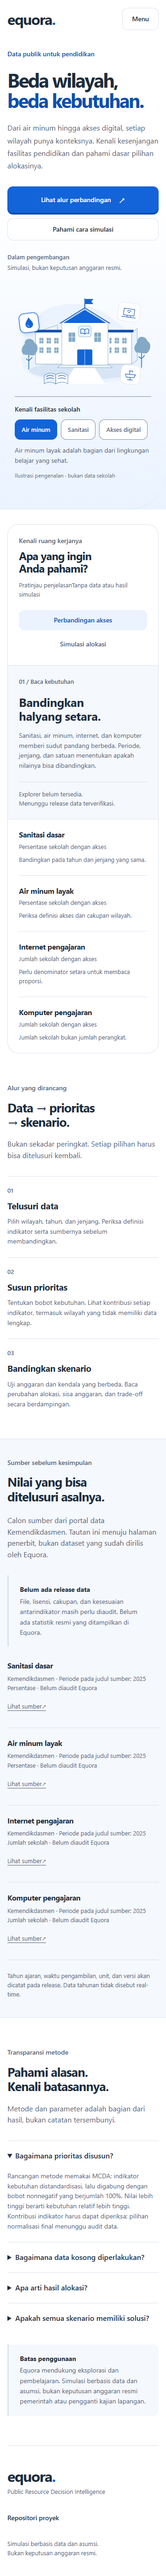
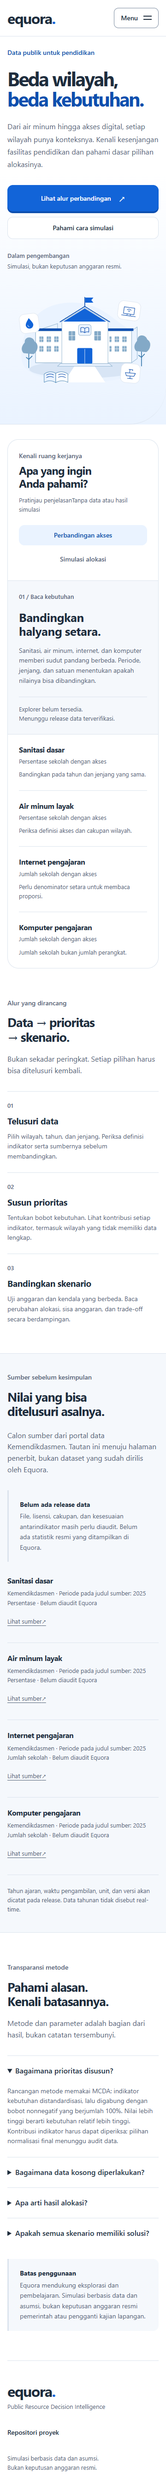
feat(web): simplify hero and refine public navigation

Changed region(s): [[0.0306, 0.0, 0.9472, 0.9957], [0.6417, 0.3734, 0.7639, 0.4045]]

diff --git a/frontend/src/lib/components/PublicShell.svelte b/frontend/src/lib/components/PublicShell.svelte
@@ -1,5 +1,6 @@
 <script lang="ts">
   import type { Snippet } from 'svelte';
+  import { page } from '$app/state';
 
   let { children, links = [] }: {
     children: Snippet;
@@ -7,6 +8,13 @@
   } = $props();
   let menuOpen = $state(false);
   let menuButton = $state<HTMLButtonElement>();
+
+  function currentFor(href: string): 'page' | 'location' | undefined {
+    const target = new URL(href, page.url);
+    if (target.pathname !== page.url.pathname) return undefined;
+    if (target.hash) return target.hash === page.url.hash ? 'location' : undefined;
+    return 'page';
+  }
 
   function closeOnEscape(event: KeyboardEvent) {
     if (event.key === 'Escape' && menuOpen) {
@@ -20,19 +28,24 @@
 
 <a class="skip-link" href="#main-content">Lewati ke konten utama</a>
 <div class="public-frame">
-<header class="eq-container header">
+<header class="header-bar">
+<div class="eq-container header">
   <a href="/" class="wordmark" aria-label="Equora, beranda">equora<span>.</span></a>
   {#if links.length}
-    <button class="eq-button menu" bind:this={menuButton} aria-expanded={menuOpen}
+    <button class="menu" bind:this={menuButton} aria-expanded={menuOpen}
       aria-controls="public-navigation" onclick={() => menuOpen = !menuOpen}>
       {menuOpen ? 'Tutup menu' : 'Menu'}
+      <span class="menu-icon" aria-hidden="true"><span></span><span></span></span>
     </button>
     <nav id="public-navigation" class:open={menuOpen} aria-label="Navigasi utama">
       {#each links as link}
-        <a href={link.href} onclick={() => menuOpen = false}>{link.label}</a>
+        <a href={link.href} class="nav-link" class:about-link={link.href === '/about'} aria-current={currentFor(link.href)} onclick={() => menuOpen = false}>
+          {link.label}{#if link.href === '/about'}<span aria-hidden="true">↗</span>{/if}
+        </a>
       {/each}
     </nav>
   {/if}
+</div>
 </header>
 
 <main id="main-content" tabindex="-1">{@render children()}</main>
@@ -47,25 +60,36 @@
 
 <style>
   .public-frame { width: calc(100% - 48px); max-width: 1360px; margin: 24px auto; background: var(--eq-surface); border-radius: 28px; box-shadow: 0 12px 48px rgb(31 45 61 / 5.5%); }
-  .header { min-height: 96px; display: flex; align-items: center; justify-content: space-between; gap: 24px; }
+  .header-bar { position: sticky; top: 0; z-index: 20; background: var(--eq-surface); border-radius: 28px 28px 0 0; border-bottom: 1px solid var(--eq-border); }
+  .header { min-height: 88px; display: flex; align-items: center; justify-content: space-between; gap: 24px; }
   .wordmark { display: inline-flex; align-items: center; min-height: 44px; font-size: 32px; font-weight: 750; letter-spacing: -1.6px; text-decoration: none; }
   .wordmark span { color: var(--eq-primary); }
-  nav { display: flex; flex-wrap: wrap; align-items: center; gap: 8px 24px; }
+  nav { display: flex; align-items: center; gap: 4px; }
   nav a, .footer > a { display: inline-flex; align-items: center; min-height: 44px; font-size: 14px; font-weight: 550; text-decoration: none; }
-  nav a:hover, .footer > a:hover { color: var(--eq-primary-hover); text-decoration: underline; }
+  .nav-link { position: relative; padding: 10px 14px; border-radius: 10px; color: var(--eq-text-secondary); gap: 14px; }
+  .nav-link:hover, .nav-link[aria-current] { background: var(--eq-primary-tint); color: var(--eq-primary-hover); }
+  .nav-link[aria-current]::after { content: ''; position: absolute; bottom: 4px; left: 14px; right: 14px; height: 2px; background: var(--eq-primary); }
+  .nav-link.about-link { margin-left: 16px; border: 1px solid var(--eq-control-border); color: var(--eq-text); }
+  .footer > a:hover { color: var(--eq-primary-hover); text-decoration: underline; }
   .menu { display: none; }
-  .skip-link { position: absolute; z-index: 10; left: 16px; top: -100px; padding: 12px 20px; background: var(--eq-surface-elevated); }
+  .menu-icon { width: 18px; display: grid; gap: 5px; }
+  .menu-icon span { width: 18px; height: 2px; background: currentColor; transition: transform 160ms ease; }
+  .menu[aria-expanded='true'] .menu-icon span:first-child { transform: translateY(3.5px) rotate(45deg); }
+  .menu[aria-expanded='true'] .menu-icon span:last-child { transform: translateY(-3.5px) rotate(-45deg); }
+  .skip-link { position: absolute; z-index: 30; left: 16px; top: -100px; padding: 12px 20px; background: var(--eq-surface-elevated); }
   .skip-link:focus { top: 12px; }
   .footer { padding-block: 40px; border-top: 1px solid var(--eq-border); display: flex; flex-wrap: wrap; align-items: center; justify-content: space-between; gap: 24px; }
   .footer p { font-size: 13px; color: var(--eq-text-secondary); }
   .disclaimer { text-align: right; }
-  @media (max-width: 767px) {
+  @media (max-width: 1023px) {
     .public-frame { width: 100%; margin: 0; border-radius: 0; box-shadow: none; }
-    .header { min-height: 80px; flex-wrap: wrap; gap: 12px; padding-block: 16px; }
-    .menu { display: inline-flex; }
-    nav { display: none; width: 100%; flex-direction: column; align-items: stretch; gap: 4px; padding-bottom: 8px; }
+    .header-bar { border-radius: 0; }
+    .header { min-height: 76px; flex-wrap: wrap; gap: 12px; padding-block: 14px; }
+    .menu { display: inline-flex; align-items: center; justify-content: center; gap: 12px; padding: 10px 14px; min-height: 44px; border: 1px solid var(--eq-control-border); border-radius: 10px; font-size: 14px; font-weight: 600; }
+    nav { display: none; width: 100%; flex-direction: column; align-items: stretch; gap: 4px; padding-block: 12px 4px; border-top: 1px solid var(--eq-border); max-height: calc(100dvh - 112px); overflow-y: auto; }
     nav.open { display: flex; }
-    nav a { padding: 8px 12px; background: var(--eq-surface); border-radius: var(--eq-radius-sm); }
+    .nav-link { padding: 12px 14px; }
+    .nav-link.about-link { margin: 8px 0 0; justify-content: space-between; }
     .footer { align-items: flex-start; flex-direction: column; }
     .disclaimer { text-align: left; }
   }

diff --git a/frontend/tests/landing.spec.ts b/frontend/tests/landing.spec.ts
@@ -12,21 +12,6 @@ for (const width of [360, 390, 768, 1024, 1440]) {
     await expect(page.getByText('Explorer belum tersedia.')).toBeVisible();
     expect(await page.evaluate(() => document.documentElement.scrollWidth <= innerWidth)).toBe(true);
 
-    const facilities = page.getByRole('group', { name: 'Sorot fasilitas pada ilustrasi' });
-    await facilities.getByRole('button', { name: 'Sanitasi', exact: true }).click();
-    await expect(page.locator('#facility-description')).toContainText('Sanitasi dasar');
-    await facilities.getByRole('button', { name: 'Akses digital', exact: true }).focus();
-    await page.keyboard.press('Enter');
-    await expect(facilities.getByRole('button', { name: 'Akses digital', exact: true })).toHaveAttribute('aria-pressed', 'true');
-    await expect(page.locator('#facility-description')).toContainText('Internet dan komputer');
-    await expect(page.locator('.education-scene .selected')).toHaveCount(1);
-    await page.emulateMedia({ reducedMotion: 'reduce' });
-    await expect(page.locator('.education-scene .selected')).toHaveCSS('transform', 'none');
-    await facilities.getByRole('button', { name: 'Air minum', exact: true }).click();
-    await expect(page.locator('#facility-description')).toContainText('Air minum layak');
-    await page.emulateMedia({ reducedMotion: 'no-preference' });
-    await page.goto('/');
-
     await page.keyboard.press('Tab');
     await expect(page.getByRole('link', { name: 'Lewati ke konten utama' })).toBeFocused();
     await page.keyboard.press('Enter');
@@ -56,7 +41,7 @@ for (const width of [360, 390, 768, 1024, 1440]) {
     for (const label of ['Lihat alur perbandingan', 'Pahami cara simulasi']) {
       await page.getByRole('link', { name: label, exact: true }).click();
     }
-    if (width < 768) {
+    if (width < 1024) {
       const menu = page.locator('button[aria-controls="public-navigation"]');
       await menu.click();
       await expect(menu).toHaveAttribute('aria-expanded', 'true');
@@ -65,18 +50,32 @@ for (const width of [360, 390, 768, 1024, 1440]) {
       await expect(menu).toHaveAttribute('aria-expanded', 'false');
     }
     for (const label of ['Alur analisis', 'Sumber data', 'Metode & batasan']) {
-      if (width < 768) await page.getByRole('button', { name: 'Menu', exact: true }).click();
+      if (width < 1024) await page.getByRole('button', { name: 'Menu', exact: true }).click();
       await page.getByRole('navigation').getByRole('link', { name: label, exact: true }).click();
       const fragment = new URL(page.url()).hash;
       await expect(page.locator(fragment)).toBeVisible();
+      await expect(page.locator('#public-navigation').getByRole('link', { name: label, exact: true, includeHidden: true })).toHaveAttribute('aria-current', 'location');
+      const header = await page.locator('header').boundingBox();
+      const section = await page.locator(fragment).boundingBox();
+      expect(section!.y).toBeGreaterThanOrEqual(header!.y + header!.height);
+      if (width < 1024) await expect(page.getByRole('button', { name: 'Menu', exact: true })).toHaveAttribute('aria-expanded', 'false');
     }
     await expect(page.locator('a[href^="https://data.kemendikdasmen.go.id/"]')).toHaveCount(4);
     await expect(page.locator('a[href="/explore"], a[href="/studio"], a[href="/datasets"], a[href="/methodology"]')).toHaveCount(0);
+    await page.goto('/');
     await page.screenshot({ path: testInfo.outputPath(`landing-${width}.png`), fullPage: true });
+    if (width < 1024) {
+      await page.getByRole('button', { name: 'Menu', exact: true }).click();
+      await page.screenshot({ path: testInfo.outputPath(`navigation-${width}.png`) });
+      await page.keyboard.press('Escape');
+    }
 
-    if (width < 768) await page.getByRole('button', { name: 'Menu', exact: true }).click();
+    if (width < 1024) await page.getByRole('button', { name: 'Menu', exact: true }).click();
     await page.getByRole('link', { name: 'Tentang Equora', exact: true }).click();
     await expect(page).toHaveURL(/\/about$/);
+    if (width < 1024) await page.getByRole('button', { name: 'Menu', exact: true }).click();
+    await expect(page.getByRole('navigation').getByRole('link', { name: 'Tentang Equora', exact: true })).toHaveAttribute('aria-current', 'page');
+    if (width < 1024) await page.keyboard.press('Escape');
     await expect(page.getByRole('heading', { level: 1 })).toHaveCount(1);
     expect(await page.evaluate(() => document.documentElement.scrollWidth <= innerWidth)).toBe(true);
     await page.screenshot({ path: testInfo.outputPath(`about-${width}.png`), fullPage: true });

diff --git a/frontend/src/routes/+page.svelte b/frontend/src/routes/+page.svelte
@@ -4,12 +4,6 @@
   import EducationScene from '#lib/components/EducationScene.svelte';
 
   let view = $state<'access' | 'allocation'>('access');
-  let facility = $state<'water' | 'sanitation' | 'digital'>('water');
-  const heroFacilities = [
-    { id: 'water', label: 'Air minum', description: 'Air minum layak adalah bagian dari lingkungan belajar yang sehat.' },
-    { id: 'sanitation', label: 'Sanitasi', description: 'Sanitasi dasar mendukung kenyamanan dan kebersihan di sekolah.' },
-    { id: 'digital', label: 'Akses digital', description: 'Internet dan komputer membuka akses pada sumber belajar digital.' }
-  ] as const;
   const facilities = [
     { name: 'Sanitasi dasar', measure: 'Persentase sekolah dengan akses', note: 'Bandingkan pada tahun dan jenjang yang sama.' },
     { name: 'Air minum layak', measure: 'Persentase sekolah dengan akses', note: 'Periksa definisi akses dan cakupan wilayah.' },
@@ -48,17 +42,7 @@
       <p class="hero-note"><span class="development-label">Dalam pengembangan</span><br />Simulasi, bukan keputusan anggaran resmi.</p>
     </div>
     <figure class="education-visual">
-      <div class="education-scene"><EducationScene selected={facility} /></div>
-      <figcaption>
-        <p class="scene-label">Kenali fasilitas sekolah</p>
-        <div class="facility-topics" role="group" aria-label="Sorot fasilitas pada ilustrasi">
-          {#each heroFacilities as item}
-            <button aria-pressed={facility === item.id} aria-controls="facility-description" onclick={() => facility = item.id}>{item.label}</button>
-          {/each}
-        </div>
-        <p id="facility-description" class="facility-description" aria-live="polite">{heroFacilities.find((item) => item.id === facility)?.description}</p>
-        <p class="illustration-note">Ilustrasi pengenalan · bukan data sekolah</p>
-      </figcaption>
+      <div class="education-scene"><EducationScene /></div>
     </figure>
   </section>
   </div>
@@ -158,14 +142,6 @@
   .development-label { font-weight: 600; }
   .education-visual { min-width: 0; margin: 0; }
   .education-scene { width: 100%; }
-  figcaption { margin: 0 24px; padding-top: 16px; border-top: 1px solid var(--eq-control-border); }
-  figcaption > p { font-size: 14px; font-weight: 600; color: var(--eq-text); }
-  .facility-topics { display: flex; flex-wrap: wrap; gap: 8px; margin-top: 12px; }
-  .facility-topics button { min-height: 44px; padding: 8px 14px; border: 1px solid var(--eq-control-border); border-radius: var(--eq-radius-sm); background: var(--eq-surface); color: var(--eq-text-secondary); font-size: 13px; font-weight: 600; }
-  .facility-topics button[aria-pressed='true'] { background: var(--eq-primary); color: white; border-color: var(--eq-primary); }
-  .facility-topics button:hover { border-color: var(--eq-primary); }
-  figcaption .facility-description { min-height: 48px; margin-top: 12px; color: var(--eq-text-secondary); font-size: 14px; font-weight: 400; }
-  figcaption .illustration-note { margin-top: 8px; font-size: 12px; color: var(--eq-text-muted); font-weight: 400; }
   @media (prefers-reduced-motion: reduce) { .hero-primary:active { transform: none; } }
   dl { margin: 0; }
   dt { font-weight: 600; }
@@ -232,7 +208,6 @@
     .hero { grid-template-columns: 1fr; gap: 32px; padding-top: 24px; }
     h1 { max-width: 620px; }
     .education-visual { width: min(100%, 520px); justify-self: center; }
-    figcaption { margin-inline: 16px; }
     .preview-header { align-items: flex-start; flex-direction: column; gap: 12px; padding: 24px; }
     .preview-caption { text-align: left; }
     .preview-caption br { display: none; }

diff --git a/frontend/src/lib/components/EducationScene.svelte b/frontend/src/lib/components/EducationScene.svelte
@@ -1,7 +1,3 @@
-<script lang="ts">
-  let { selected = 'water' }: { selected?: 'water' | 'sanitation' | 'digital' } = $props();
-</script>
-
 <svg viewBox="0 0 600 430" role="img" aria-label="Ilustrasi lingkungan sekolah dengan fasilitas air, sanitasi, dan akses digital, bukan data sekolah nyata">
   <defs>
     <pattern id="eq-school-windows" width="30" height="38" patternUnits="userSpaceOnUse">
@@ -36,24 +32,18 @@
   <path d="M64 264C48 247 63 228 69 222C66 198 100 194 108 218C130 231 117 263 103 268Z" class="leaves" />
   <path d="M511 256C495 239 510 220 516 214C513 190 547 186 555 210C577 223 564 255 550 260Z" class="leaves" />
   <g transform="translate(49 108) rotate(-7 38 38)">
-    <g class="facility-icon" class:selected={selected === 'water'}>
     <rect width="76" height="76" rx="20" class="resource-card" />
     <path d="M38 17C31 28 23 36 23 44A15 15 0 0 0 53 44C53 36 45 28 38 17Z" class="drop" />
     <path d="M31 44Q31 51 38 52" class="drop-detail" />
-    </g>
   </g>
   <g transform="translate(439 59) rotate(8 43 37)">
-    <g class="facility-icon" class:selected={selected === 'digital'}>
     <rect width="88" height="74" rx="20" class="resource-card" />
     <path d="M23 40V24H65V50H23V40M16 57H72M38 50V57M51 50V57" class="computer" />
     <path d="M36 34Q44 27 52 34M41 39Q44 36 47 39" class="signal" />
-    </g>
   </g>
   <g transform="translate(450 306) rotate(5 38 38)">
-    <g class="facility-icon" class:selected={selected === 'sanitation'}>
       <rect width="76" height="76" rx="20" class="resource-card" />
       <path d="M18 37H58L53 49H23ZM38 49V59M28 59H48M35 37V23H46V28M31 23H40" class="computer" />
-    </g>
   </g>
   <path d="M146 347Q169 331 192 344L192 381Q169 367 146 380Z" class="open-book-left" />
   <path d="M192 344Q216 331 240 347V380Q216 367 192 381Z" class="open-book-right" />
@@ -74,10 +64,6 @@
   .window-line, .door-line, .drop-detail { fill: none; stroke: var(--eq-surface); stroke-width: 1.5; stroke-linecap: round; }
   .tree { fill: none; stroke: var(--eq-chart-blue); stroke-width: 3; stroke-linecap: round; }
   .resource-card { fill: var(--eq-surface); stroke: var(--eq-border); stroke-width: 1.5; }
-  .facility-icon { transform-box: fill-box; transform-origin: center; transition: transform 220ms ease, filter 220ms ease; }
-  .selected { transform: translateY(-8px); filter: drop-shadow(0 8px 6px rgb(14 79 175 / 14%)); }
-  .selected .resource-card { stroke: var(--eq-primary); stroke-width: 2.5; }
-  @media (prefers-reduced-motion: reduce) { .facility-icon { transition: none; } .selected { transform: none; } }
   .computer, .signal, .book, .book-lines { fill: none; stroke: var(--eq-primary-hover); stroke-width: 2; stroke-linecap: round; stroke-linejoin: round; }
   .open-book-left, .open-book-right { stroke: var(--eq-chart-blue); stroke-width: 1.5; stroke-linejoin: round; }
 </style>

diff --git a/frontend/src/routes/about/+page.svelte b/frontend/src/routes/about/+page.svelte
@@ -8,7 +8,7 @@
   <meta name="description" content="Tujuan, status pengembangan, dan batas penggunaan Equora, platform perbandingan akses fasilitas pendidikan dan simulasi alokasi sumber daya." />
 </svelte:head>
 
-<PublicShell links={[{ label: 'Beranda', href: '/' }, { label: 'Sumber data', href: '/#sumber' }, { label: 'Metode & batasan', href: '/#metode' }]}>
+<PublicShell links={[{ label: 'Alur analisis', href: '/#alur' }, { label: 'Sumber data', href: '/#sumber' }, { label: 'Metode & batasan', href: '/#metode' }, { label: 'Tentang Equora', href: '/about' }]}>
   <article class="eq-container about">
     <p class="eq-kicker">Tentang Equora</p>
     <h1>Keputusan lebih terukur dimulai dari data yang bisa diperiksa.</h1>

diff --git a/frontend/src/app.css b/frontend/src/app.css
@@ -46,7 +46,7 @@ button { cursor: pointer; }
 button:disabled { cursor: not-allowed; }
 :focus-visible { outline: 3px solid var(--eq-focus); outline-offset: 4px; }
 ::selection { background: var(--eq-primary-tint); color: var(--eq-text); }
-section[id], main[id] { scroll-margin-top: 24px; }
+section[id], main[id] { scroll-margin-top: 112px; }
 .eq-container { width: min(1200px, calc(100% - 64px)); margin-inline: auto; }
 .eq-button {
   display: inline-flex; justify-content: center; align-items: center;

diff --git a/docs/landing-validation.md b/docs/landing-validation.md
@@ -6,13 +6,15 @@ Pembaruan: 20 Oktober 2026. Baseline: [DESIGN v1.2 Clean Education Blue](DESIGN_
 
 `/` sekarang mengirim HTML landing, menggantikan JSON status fondasi. Status server tetap di `/health`; proxy backend tetap di `/api/health`. `/about` menjelaskan masalah, pengguna, status proyek dan batas penggunaan. Landing tidak membutuhkan backend, database atau request eksternal untuk tampil.
 
-Tema memakai panel putih, canvas sangat muda, biru utama, serta satu bingkai workspace dengan bayangan tipis di desktop dan layout penuh di mobile. Ilustrasi sekolah SVG lokal memperjelas konteks pendidikan; bukan sekolah nyata atau data indikator. Warna ilustrasi mengikuti token UI. Tidak ada maskot atau aset finansial/avatar dari referensi.
+Tema memakai panel putih, canvas sangat muda, biru utama, serta satu bingkai workspace dengan bayangan tipis di desktop dan layout penuh di mobile/tablet di bawah 1024px. Ilustrasi sekolah SVG lokal memperjelas konteks pendidikan; bukan sekolah nyata atau data indikator. Warna ilustrasi mengikuti token UI. Tidak ada maskot atau aset finansial/avatar dari referensi.
 
 Penyempurnaan hero pada `feat/landing-hero`: headline **Beda wilayah, beda kebutuhan.**, komposisi teks/ilustrasi sekolah yang terbuka, detail buku/air/perangkat, serta caption fasilitas HTML. Kartu status/daftar metadata di sisi kanan dihapus. Status pengembangan dan batas simulasi tetap terlihat di dekat CTA. Palet v1.2 dan perilaku interaksi tetap sama.
 
-Revisi lanjutan `feat/hero-atmosphere` menambahkan latar putih menuju tint biru, CTA dengan respons tekan, dan pilihan fasilitas yang menyorot ikon air/sanitasi/digital sekaligus mengganti penjelasan HTML. Semua pilihan dapat dioperasikan dengan keyboard dan memiliki `aria-pressed`; deskripsi memakai live region. Tidak ada hasil data atau analisis di dalam interaksi ini. Gerak seleksi hanya berlangsung saat pilihan berubah, tanpa loop, dan reduced motion meniadakan perpindahan.
+Revisi `feat/public-navbar-refinement` menghapus panel pilihan fasilitas, deskripsi dan state/sorotan interaktif hero sesuai tinjauan pengguna. Latar biru dan ilustrasi statis tetap ada; hero menjadi lebih ringkas. Navbar kini sticky, memiliki indikator lokasi/halaman aktif, dan memakai menu seragam pada Landing dan About. Di bawah 1024px menu buka/tutup dibatasi tinggi viewport. Offset anchor menjaga konten tidak tertutup header.
 
-Hero terbaru telah diperiksa melalui build/type-check (0 errors/warnings), 2 unit tests dan 6 Playwright tests yang lulus pada lima viewport. Uji browser mencakup pilihan fasilitas dengan klik dan keyboard, caption, satu ikon terpilih, serta transform none pada reduced motion. Detail tampilan tersedia di [hero desktop](evidence/landing/hero-desktop.png) dan [hero mobile](evidence/landing/hero-mobile.png); keduanya ditinjau secara visual. Gate Hard/Purpose/Liveliness/Craftsmanship tetap PASS: tidak ada metrik rekaan, caption tetap HTML terbaca, dan kontrol fasilitas terpisah dari SVG.
+Bukti terbaru: [hero desktop](evidence/landing/hero-desktop.png), [hero mobile](evidence/landing/hero-mobile.png), [menu mobile](evidence/landing/navigation-mobile.png).
+
+Verifikasi navbar: type check 0 errors/warnings, production build lulus, dan 6 browser tests lulus pada 360/390/768/1024/1440px. Pengujian mencakup `aria-current` bagian/halaman, menu menutup setelah pilihan, Escape/fokus, serta posisi tujuan anchor di bawah header sticky. Screenshot desktop dan menu mobile ditinjau secara visual. Tidak ada perubahan pada kontrak API.
 
 CTA menuju anchor penjelasan yang tersedia. Tombol perbandingan/simulasi mengganti penjelasan, bukan menjalankan solver. Explorer/studio, release data, dan metode final ditandai belum tersedia. Tidak ada angka indikator, hasil optimasi, peta, testimoni atau dampak rekaan. Empat URL sumber mengacu pada calon sumber di BRD; halaman penerbit berhasil dibuka saat verifikasi, tetapi audit file/lisensi terpisah.
 
@@ -30,9 +32,9 @@ CTA menuju anchor penjelasan yang tersedia. Tombol perbandingan/simulasi menggan
 
 PASS Hard Gate: tidak ada klaim/statistik rekaan, overflow atau tautan produk palsu; interaksi dan keyboard diuji pada lima viewport. Loading/error jaringan tidak berlaku karena halaman tidak memuat API; keadaan kosong dan ketersediaan dijelaskan secara statis. Ilustrasi mengikuti konteks pendidikan yang disetujui pengguna.
 
-PASS Purpose Gate: warna dan font mengikuti DESIGN v1.2; biru menandai tindakan/selection, panel membedakan alur dari metadata. Panah CTA menunjukkan navigasi ke penjelasan. Ilustrasi sekolah mendukung konteks fasilitas pendidikan. Gradien hero mengarahkan dari ruang baca putih ke lingkungan sekolah biru. Bayangan hanya membedakan workspace dan ikon fasilitas terpilih; tidak ada glass atau glow.
+PASS Purpose Gate: warna dan font mengikuti DESIGN v1.2; biru menandai tindakan/selection, panel membedakan alur dari metadata. Panah CTA menunjukkan navigasi ke penjelasan. Ilustrasi sekolah mendukung konteks fasilitas pendidikan. Gradien hero mengarahkan dari ruang baca putih ke lingkungan sekolah biru. Bayangan hanya membedakan workspace; tidak ada glass atau glow.
 
-PASS Liveliness: ENERGY 2 / RHYTHM 2 / MOTION 1; headline biru, ilustrasi pendidikan, panel penjelasan, alur linear dan sumber berbentuk daftar memberi identitas dan ritme berbeda. Motif data → prioritas → skenario konsisten; fokus utama headline dan satu CTA utama. Transisi hanya memberi umpan balik seleksi/tekan; tidak ada animasi berulang. Reduced motion diuji.
+PASS Liveliness: ENERGY 2 / RHYTHM 2 / MOTION 1; headline biru, ilustrasi pendidikan, panel penjelasan, alur linear dan sumber berbentuk daftar memberi identitas dan ritme berbeda. Motif data → prioritas → skenario konsisten; fokus utama headline dan satu CTA utama. Transisi hanya memberi umpan balik tekan/ikon menu; tidak ada animasi berulang. Aturan reduced motion global dipertahankan.
 
 PASS Craftsmanship: screenshot ditinjau, interaksi diuji, status fitur jujur. Kontras teks putih pada biru utama **5.47:1**; secondary pada subpanel **5.84:1**; muted pada canvas **4.84:1**; selected text pada tint **6.81:1**. Control border **3.38:1** pada putih memenuhi batas nonteks 3:1 dan tidak dipakai sebagai warna teks. Border panel yang lebih pucat hanya dekoratif.
 

diff --git a/docs/ui-foundation.md b/docs/ui-foundation.md
@@ -4,7 +4,7 @@ Mengikuti baseline yang disetujui pada `DESIGN_Equora.md` v1.2, bagian 3–6, di
 
 ## Arah dan keputusan visual
 
-ENERGY 2 / RHYTHM 2 / MOTION 1. Identitas Clean Education Blue: canvas abu-abu sangat muda, panel putih, teks biru gelap/netral dan biru medium untuk tindakan utama. Tipografi Inter dengan fallback sistem mengikuti baseline, tanpa unduhan font. Ruang kosong memisahkan penjelasan dari bukti; border memisahkan metadata. Satu bingkai putih bersudut 28px dan bayangan tipis menandai workspace pada desktop; mobile menjadi bidang penuh tanpa bingkai. Wordmark teks sementara `equora.` mengikuti dokumen desain. Ilustrasi sekolah SVG lokal memperjelas konteks pendidikan tanpa mewakili sekolah nyata atau data.
+ENERGY 2 / RHYTHM 2 / MOTION 1. Identitas Clean Education Blue: canvas abu-abu sangat muda, panel putih, teks biru gelap/netral dan biru medium untuk tindakan utama. Tipografi Inter dengan fallback sistem mengikuti baseline, tanpa unduhan font. Ruang kosong memisahkan penjelasan dari bukti; border memisahkan metadata. Satu bingkai putih bersudut 28px dan bayangan tipis menandai workspace pada desktop; mobile/tablet di bawah 1024px menjadi bidang penuh tanpa bingkai. Wordmark teks sementara `equora.` mengikuti dokumen desain. Ilustrasi sekolah SVG lokal memperjelas konteks pendidikan tanpa mewakili sekolah nyata atau data.
 
 ## Kontrak bersama
 
@@ -13,9 +13,11 @@ ENERGY 2 / RHYTHM 2 / MOTION 1. Identitas Clean Education Blue: canvas abu-abu s
 - `AvailabilityNotice.svelte`: judul dan snippet isi untuk status ketersediaan. Tidak memakai live region untuk informasi statis.
 - `EducationScene.svelte`: ilustrasi sekolah lokal dengan nama aksesibel. Warna memakai token UI; tidak memuat angka, aset eksternal, atau hasil analisis.
 
-Hero memakai headline dua baris dan ilustrasi lingkungan sekolah yang terbuka, menggantikan kartu metadata di sisi kanan. Buku/air/perangkat memperjelas konteks fasilitas; caption HTML tetap terbaca pada mobile dan status pengembangan berada di dekat CTA. Alur dan metadata rinci tetap berada di bawah hero agar pengantar lebih mudah dipahami.
+Hero memakai headline dua baris dan ilustrasi sekolah statis. Panel Kenali fasilitas sekolah, pilihan fasilitas, caption dan state seleksinya dihapus pada `feat/public-navbar-refinement`, sesuai tinjauan pengguna. Penjelasan indikator tetap tersedia pada pratinjau. Nama aksesibel ilustrasi menjelaskan bahwa ini bukan data sekolah nyata. Status pengembangan tetap di dekat CTA.
 
-Penyempurnaan `feat/hero-atmosphere` memberi latar putih menuju tint biru hanya pada hero: area baca tetap terang, sisi ilustrasi menjadi lingkungan sekolah yang lebih terasa. Ini pemisah hierarki, tanpa glow, glass atau pola grid. Pilihan Air minum/Sanitasi/Akses digital adalah tombol nyata dengan `aria-pressed`, caption live dan sorotan ikon terkait; tidak mengubah data atau menjalankan analisis. Ikon terpilih terangkat 8px selama transisi 220ms, tanpa loop. Reduced motion meniadakan perpindahan, menyisakan outline seleksi. CTA utama memiliki tepi bawah biru gelap untuk respons tekan, tanpa menggeser layout. ENERGY 2 / RHYTHM 2 / MOTION 1 tetap berlaku.
+Latar putih menuju tint biru hanya pada hero memisahkan area baca dari ilustrasi, tanpa glow, glass atau grid. CTA utama memiliki tepi bawah biru gelap untuk respons tekan, tanpa menggeser layout. ENERGY 2 / RHYTHM 2 / MOTION 1 tetap berlaku.
+
+Navbar publik memakai header sticky putih solid, penanda aktif dengan `aria-current` dan outline pada Tentang Equora. Landing dan About memakai daftar menu yang sama. Breakpoint menu 1024px mencegah menu berdesakan di tablet; bingkai luar juga menjadi penuh di bawah breakpoint ini. Menu buka/tutup mendukung Escape, penutupan setelah navigasi, dan batas tinggi viewport dengan scroll. Offset anchor 112px menghindari judul tertutup header. Transisi ikon menu mengikuti reduced motion global.
 
 Shell dipasang oleh halaman publik yang membutuhkannya. Endpoint `/health` dan `/api/health` tetap terpisah dari UI. Tidak ada sidebar dashboard atau navigasi admin sebelum route serta kontrol aksesnya tersedia.
 

diff --git a/docs/DESIGN_Equora.md b/docs/DESIGN_Equora.md
@@ -164,7 +164,7 @@ Navigation item terdiri dari ikon, label, active background putih/hampir putih d
 [Deskripsi: air minum, fasilitas digital dan konteks kebutuhan wilayah]
 [Lihat alur perbandingan] [Pahami cara simulasi]
 [Status pengembangan + caveat simulator]
-[Ilustrasi lingkungan sekolah yang dominan; caption air minum / sanitasi / akses digital]
+[Ilustrasi lingkungan sekolah yang dominan, tanpa panel pilihan fasilitas]
 
 [Product preview: contoh explorer, grafik, scenario output yang bisa diklik]
 [3 langkah: Telusuri data > Susun prioritas > Bandingkan skenario]
@@ -176,7 +176,9 @@ Navigation item terdiri dari ikon, label, active background putih/hampir putih d
 
 **Interactions:** CTA navigate; product preview no fake live metrics; no misleading logos/testimonials. Hero motion optional and respects `prefers-reduced-motion`.
 
-**Latar dan respons hero:** gradien putih menuju tint biru dibatasi pada pengantar untuk memisahkan area baca dari lingkungan ilustrasi. Tidak ada glow, grid atau glass. Pilihan fasilitas Air minum, Sanitasi dan Akses digital menyorot ikon terkait dan mengganti penjelasan HTML; ini pengenalan fasilitas, bukan dataset interaktif. Tombol memakai `aria-pressed`, dapat dioperasikan dengan keyboard, dan deskripsi diumumkan melalui live region. Transisi sorotan 220ms dan respons tekan CTA hanya dipicu tindakan pengguna, tanpa animasi berulang. Reduced motion mempertahankan outline seleksi tanpa perpindahan ikon/tombol.
+**Latar dan respons hero:** gradien putih menuju tint biru dibatasi pada pengantar untuk memisahkan area baca dari lingkungan ilustrasi. Tidak ada glow, grid atau glass. Ilustrasi statis memiliki nama aksesibel yang menyatakan bahwa ini bukan data sekolah nyata. Panel pilihan fasilitas dan keterangannya dihapus agar hero ringkas; penjelasan indikator berada di pratinjau berikutnya. Respons tekan CTA tetap mengikuti reduced motion.
+
+**Navbar publik:** header sticky putih solid, logo di kiri dan menu di kanan. Tentang Equora dibedakan dengan outline; bagian aktif memakai tint biru, garis bawah dan `aria-current`. Landing dan About memakai menu yang sama. Di bawah 1024px menu buka/tutup memiliki target minimum 44px, Escape mengembalikan fokus, dan pilihan tautan menutup menu. Tinggi menu dibatasi viewport dan dapat digulir. Offset anchor 112px menjaga judul bagian tetap terbaca di bawah header.
 
 **Hero publik saat ini:** komposisi teks dan ilustrasi terbuka, bukan kartu status berisi daftar metadata. Headline dua baris menonjolkan kebutuhan antardaerah, dengan ilustrasi kampus/sekolah SVG di sebelahnya. Buku, air dan perangkat digital hanya memberi konteks fasilitas, bukan bukti data sekolah nyata. Metadata dan rincian alur tetap di section berikutnya. Pada mobile ilustrasi ditumpuk setelah teks/tindakan, tanpa label kecil tertanam di SVG. CTA menuju anchor penjelasan yang tersedia sampai explorer/studio siap; jangan membuat link aktif ke route yang belum ada.
 
